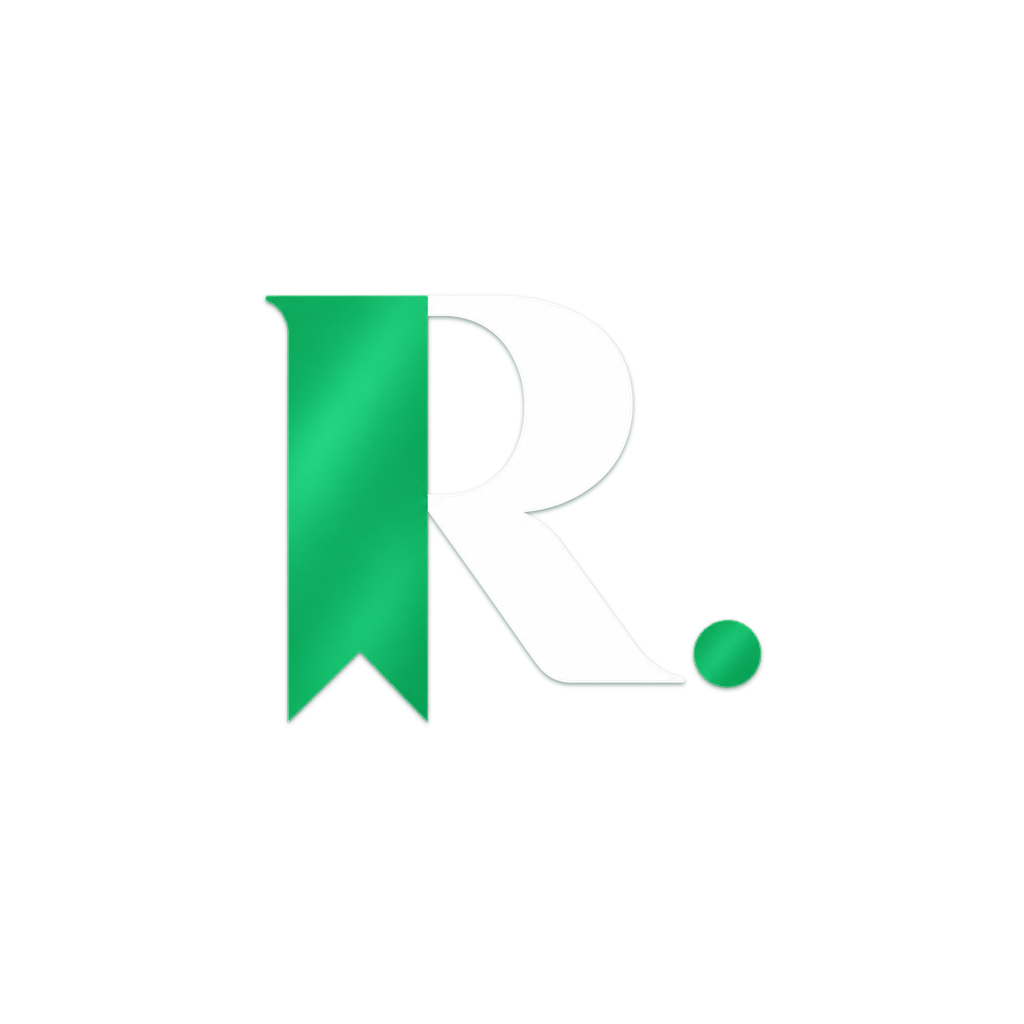
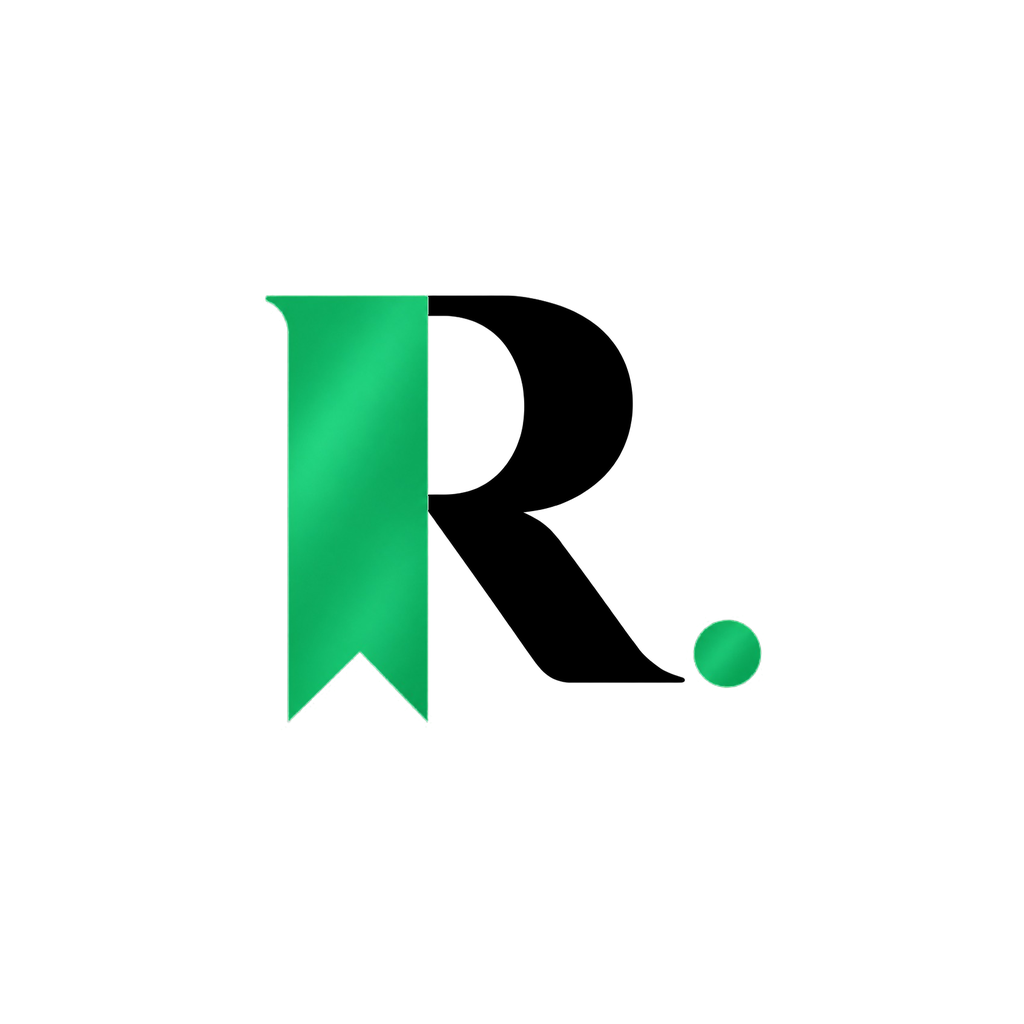
Update V1.5 branding with black lettering and green accents

diff --git a/mobile/src/components/brand.tsx b/mobile/src/components/brand.tsx
@@ -1,5 +1,5 @@
 import React from "react";
-import { Image, Platform, View } from "react-native";
+import { Image, View } from "react-native";
 import layout from "../../assets/brand/wordmark-layout.json";
 
 export function BrandWordmark({ width = 156 }: { width?: number }) {
@@ -12,16 +12,6 @@ export function BrandWordmark({ width = 156 }: { width?: number }) {
         width,
         height,
         flexShrink: 0,
-        ...Platform.select({
-          web: { filter: "drop-shadow(0 1px 1px rgba(20, 66, 45, 0.6))" },
-          android: { filter: "drop-shadow(0 1px 1px rgba(20, 66, 45, 0.6))" },
-          default: {
-            shadowColor: "#14422d",
-            shadowOffset: { width: 0, height: 1 },
-            shadowOpacity: 0.6,
-            shadowRadius: 1,
-          },
-        }),
       }}
     >
       <View style={{ width, height, overflow: "hidden" }}>

diff --git a/mobile/public/index.html b/mobile/public/index.html
@@ -17,8 +17,8 @@
     <meta name="apple-mobile-web-app-status-bar-style" content="default" />
     <meta name="apple-mobile-web-app-title" content="Remarked" />
     <link rel="manifest" href="/manifest.webmanifest" />
-    <link rel="apple-touch-icon" sizes="180x180" href="/icons/remarked-v14-apple-touch.png" />
-    <link rel="icon" type="image/png" sizes="48x48" href="/icons/remarked-v14-favicon.png" />
+    <link rel="apple-touch-icon" sizes="180x180" href="/icons/remarked-v15-apple-touch.png" />
+    <link rel="icon" type="image/png" sizes="48x48" href="/icons/remarked-v15-favicon.png" />
     <style>
       html,
       body {

diff --git a/mobile/src/lib/share-card.web.ts b/mobile/src/lib/share-card.web.ts
@@ -25,7 +25,7 @@ function loadWordmark() {
       resolve(image);
     };
     image.onerror = fallback;
-    image.src = "/brand/remarked-wordmark-transparent.png";
+    image.src = "/brand/remarked-wordmark-light.png";
   }));
 }
 export async function createShareCards(

diff --git a/scripts/prepare_brand_assets.py b/scripts/prepare_brand_assets.py
@@ -1,8 +1,8 @@
-"""User-approved local cutout of the original artwork. Requires Pillow and NumPy."""
+"""User-approved cutout and black-ink recolor. Requires Pillow and NumPy."""
 from pathlib import Path
 from PIL import Image, ImageFilter
 import numpy as np, json, shutil
-ROOT=Path(__file__).resolve().parents[1]; brand=ROOT/'mobile/assets/brand'; preview=ROOT/'.local/brand14'; preview.mkdir(parents=True,exist_ok=True)
+ROOT=Path(__file__).resolve().parents[1]; brand=ROOT/'mobile/assets/brand'; preview=ROOT/'.local/brand15'; preview.mkdir(parents=True,exist_ok=True)
 
 def extract(name):
     original=Image.open(brand/f'remarked-{name}.jpg').convert('RGB')
@@ -23,6 +23,15 @@ def extract(name):
     box=cutout.getchannel('A').getbbox()
     box=(max(0,box[0]-8),max(0,box[1]-8),min(cutout.width,box[2]+8),min(cutout.height,box[3]+8))
     cutout=cutout.crop(box)
+    # Dark reflection cards retain the original light-ink contrast variant.
+    if name=='wordmark':
+        cutout.save(ROOT/'mobile/public/brand/remarked-wordmark-light.png',optimize=True)
+    pixels=np.array(cutout)
+    colors=pixels[:,:,:3].astype(int)
+    green=(colors[:,:,1]-colors[:,:,0]>20)&(colors[:,:,1]-colors[:,:,2]>12)
+    # Preserve the supplied green gradient and all alpha/antialias coverage.
+    pixels[~green,:3]=0
+    cutout=Image.fromarray(pixels,'RGBA')
     cutout.save(brand/f'remarked-{name}-transparent.png',optimize=True)
     for bgname,color in [('paper','#fdf9f3'),('dark','#1c1e1d')]:
         base=Image.new('RGBA',cutout.size,color);base.alpha_composite(cutout)
@@ -39,18 +48,16 @@ def icon(size,padding=.19,opaque=True):
     result=Image.new('RGBA',(size,size),'#fdf9f3' if opaque else (0,0,0,0))
     fitted=mark.copy();fitted.thumbnail((round(size*(1-2*padding)),round(size*(1-2*padding))),Image.Resampling.LANCZOS)
     pos=((size-fitted.width)//2,(size-fitted.height)//2)
-    silhouette=Image.new('L',(size,size));silhouette.paste(fitted.getchannel('A'),(pos[0],pos[1]+max(1,round(size*.002))))
-    shadow=Image.new('RGBA',(size,size),(20,66,45,0));shadow.putalpha(silhouette.filter(ImageFilter.GaussianBlur(max(.5,size*.002))).point(lambda p:round(p*.5)))
-    result.alpha_composite(shadow);result.alpha_composite(fitted,pos)
+    result.alpha_composite(fitted,pos)
     return result.convert('RGB') if opaque else result
 assets=ROOT/'mobile/assets'; public=ROOT/'mobile/public/icons'
 icon(1024).save(assets/'icon.png'); icon(1024,.25,False).save(assets/'android-icon-foreground.png');icon(1024).save(assets/'splash-icon.png');icon(48,.1).save(assets/'favicon.png')
-for size,name,pad in [(192,'remarked-v14-192.png',.19),(512,'remarked-v14-512.png',.19),(512,'remarked-v14-maskable-512.png',.25),(180,'remarked-v14-apple-touch.png',.19),(48,'remarked-v14-favicon.png',.1)]:
+for size,name,pad in [(192,'remarked-v15-192.png',.19),(512,'remarked-v15-512.png',.19),(512,'remarked-v15-maskable-512.png',.25),(180,'remarked-v15-apple-touch.png',.19),(48,'remarked-v15-favicon.png',.1)]:
     icon(size,pad).save(public/name)
 icon(512).save(preview/'app-icon.png')
 
-# Keep prior icon paths working for existing shortcuts while new manifests use v14 URLs.
-for current in public.glob('remarked-v14-*.png'):
-    shutil.copy2(current,public/current.name.replace('remarked-v14-','remarked-'))
-for target,source in [('icon-512.png','remarked-v14-512.png'),('icon-192.png','remarked-v14-192.png'),('apple-touch-icon.png','remarked-v14-apple-touch.png')]:
+# Keep unversioned icon paths working while new manifests use v15 URLs.
+for current in public.glob('remarked-v15-*.png'):
+    shutil.copy2(current,public/current.name.replace('remarked-v15-','remarked-'))
+for target,source in [('icon-512.png','remarked-v15-512.png'),('icon-192.png','remarked-v15-192.png'),('apple-touch-icon.png','remarked-v15-apple-touch.png')]:
     shutil.copy2(public/source,public/target)

diff --git a/README.md b/README.md
@@ -298,15 +298,15 @@ Ebook quicker stretches require three adjacent comparable pages, each at least 1
 
 Validation: 81 automated tests pass; mobile typecheck, lint and web export pass. Browser checks at 390×844 and 1280×900 cover both highlight directions, two compact cards, expand/collapse, manual logs, empty history, local EPUB reimport, and the passage-analysis entry point. No new model call is needed for the graph. Temporary test records are removed after verification.
 
-### Remarked brand assets — V1.4
+### Remarked brand assets — V1.5
 
-The complete **Remarked.** wordmark appears only in the Home greeting row, immediately before the time-of-day greeting. Its width adapts to narrow phones and desktop layouts; it does not occupy a separate header row. Shared page headers, login, loading, detail screens and the other tabs have no brand image. Navigation arrows, page titles and profile controls remain available. Exported reflection cards retain their own brand signature.
+The complete **Remarked.** wordmark appears only in the Home greeting row, immediately before the time-of-day greeting. Its width adapts to narrow phones and desktop layouts without adding a separate header row. Other app pages retain navigation and profile avatars, with no brand image in their headers.
 
-The supplied JPEG originals remain untouched in `mobile/assets/brand/`. User-approved local processing creates `remarked-wordmark-transparent.png` and `remarked-mark-transparent.png`, preserving the original outlines and clearing letter counters as well as the surrounding charcoal background. `scripts/prepare_brand_assets.py` reproduces the cutouts with Pillow and NumPy; `wordmark-layout.json` describes their bounds. The discarded image-generation attempts are not used. A small alpha-based drop shadow makes the white wordmark readable on the paper-colored Home background.
+The supplied JPEG originals remain untouched in `mobile/assets/brand/`. `scripts/prepare_brand_assets.py` reproduces the transparent cutouts with Pillow and NumPy and changes the white lettering to black, preserving the green bookmark, dot, original outlines and alpha coverage. `wordmark-layout.json` describes their bounds. Black lettering is readable directly on the paper background, so the previous shadow is removed.
 
-The **R.** mark continues to identify the installed app. Native/PWA/Apple icons now use a paper-colored canvas and subtle silhouette shadow; Android's foreground retains alpha, and maskable variants include safe padding. Versioned `remarked-v14-*` URLs refresh browser icon resources. Reflection-card export loads the transparent wordmark from the same origin and falls back to the brand name if the image cannot load.
+The **R.** mark uses the same black-and-green palette for native, PWA and Apple icons. Icons retain their paper canvas and maskable padding; Android's foreground retains alpha. Versioned `remarked-v15-*` URLs refresh browser icon resources. The dark reflection-card export uses a separate original light-ink wordmark for contrast, with a text fallback if loading fails.
 
-Validation covers typecheck, lint, web export, share-card layout, Home layouts at 320/375/390/768/1280 pixels, eight other pages without a visible brand image, PNG alpha, icon backgrounds and PNG card export. Native builds and a physical iPhone installation are not part of these browser checks.
+Validation covers typecheck, lint, web export, Home layouts at 320/375/390/768/1280 pixels, eight other pages without a visible brand image, PNG alpha, icon backgrounds and PNG card export. Native builds and a physical iPhone installation are not part of these browser checks.
 
 ## Automatic cloud ebooks (1.2)
 
